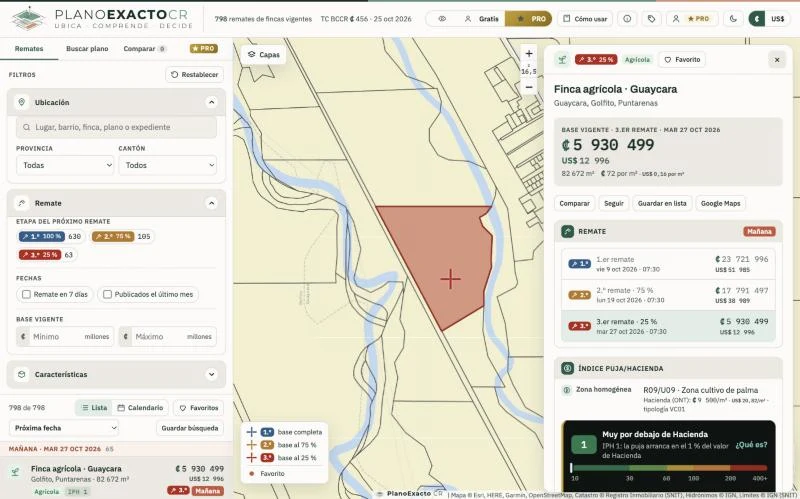
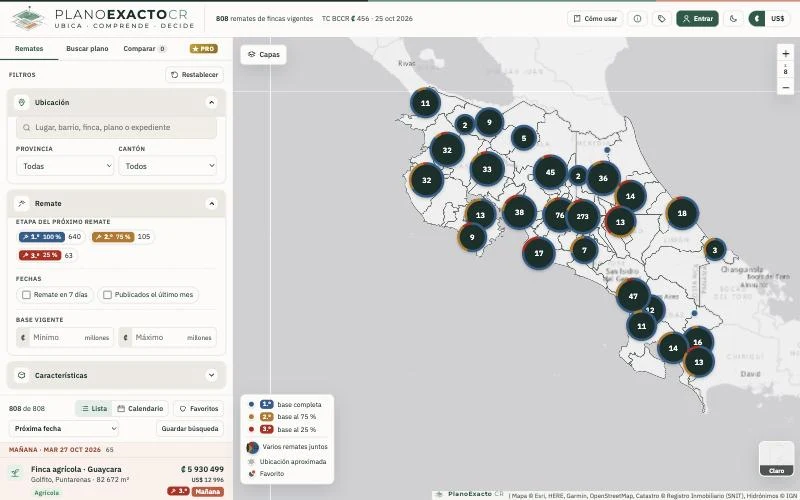
Captura nueva de la página de inicio
Claude-Session: https://claude.ai/code/session_01Ax9pRXsmvhxfzVvA88zKLz

diff --git a/inicio.html b/inicio.html
@@ -117,7 +117,7 @@ footer nav { display: flex; flex-wrap: wrap; gap: 8px 18px; }
       </ul>
       <div class="cta"><a class="btn pri" href="#registro" id="ctaCrear">Crear cuenta gratis</a><a class="btn" href="/mapa" id="ctaMapa">Explorar el mapa</a></div>
     </div>
-    <div class="vista"><img src="/assets/img/vista-app.webp" alt="Mapa de PlanoExactoCR con remates marcados en cruces y la ficha de una propiedad abierta" width="800" height="499"><span class="sello">Vista real de la versión de prueba</span></div>
+    <div class="vista"><img src="/assets/img/vista-app.webp" alt="Mapa de PlanoExactoCR con remates marcados en cruces y la ficha de una propiedad abierta" width="800" height="499"><span class="sello">Vista real del mapa · hoy</span></div>
   </div>
 
   <section id="que">
